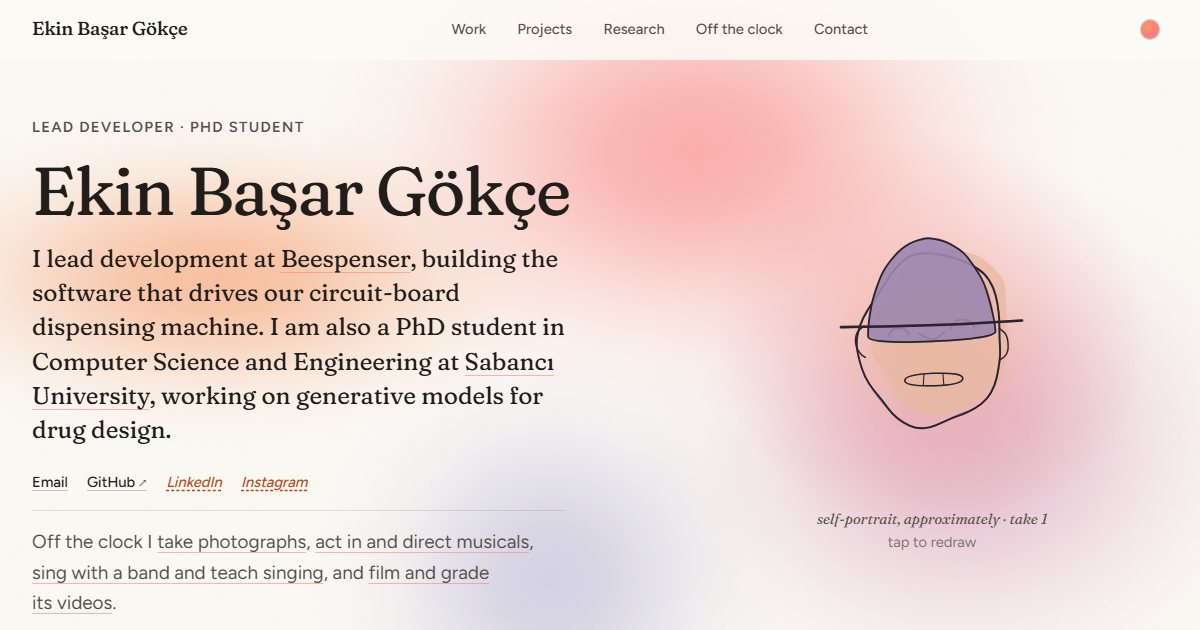
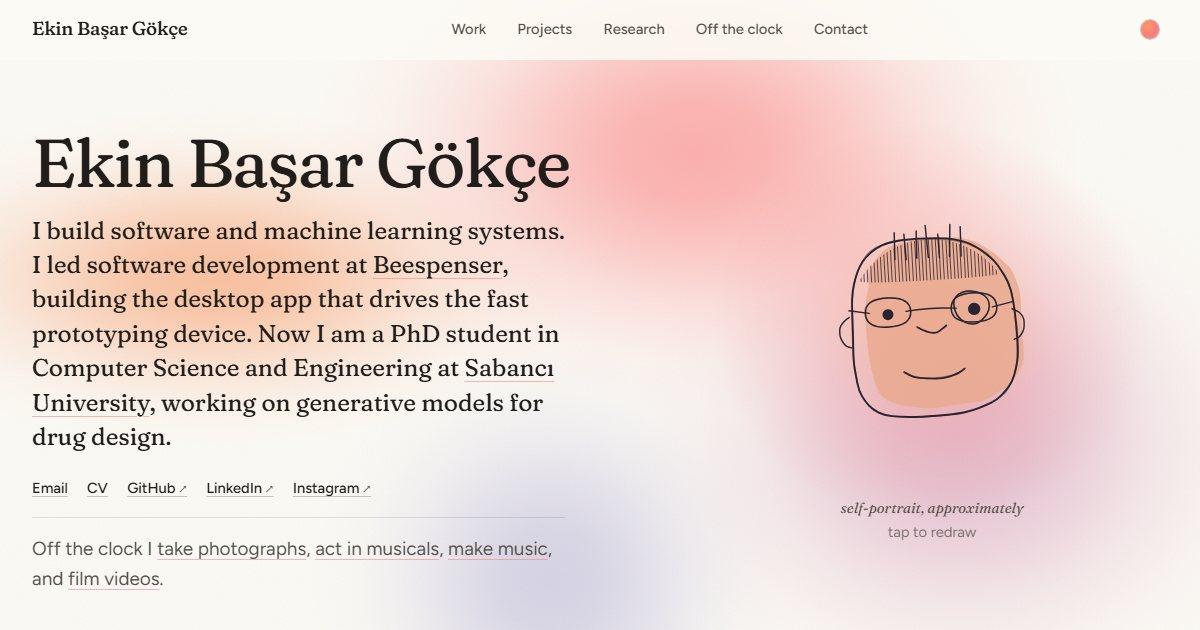
Title is just the name; refresh the link-preview image
The home page title (browser tab, link previews) is now "Ekin Başar Gökçe".
og.jpg is recaptured from the current hero with the favicon's face; the old
one still showed the first version's text.

diff --git a/src/site.ts b/src/site.ts
@@ -7,7 +7,7 @@ export const site = {
   name: 'Ekin Başar Gökçe',
   shortName: 'Ekin B. Gökçe',
   url: 'https://ekinbasargokce.github.io',
-  title: 'Ekin Başar Gökçe · Engineer and PhD researcher',
+  title: 'Ekin Başar Gökçe',
   description:
     'Engineer and PhD student in Computer Science and Engineering at Sabancı University, working on generative drug design. Former Lead Developer at Beespenser. Also photography, musical theatre, a band and its videos.',
   location: 'İstanbul, Türkiye',
